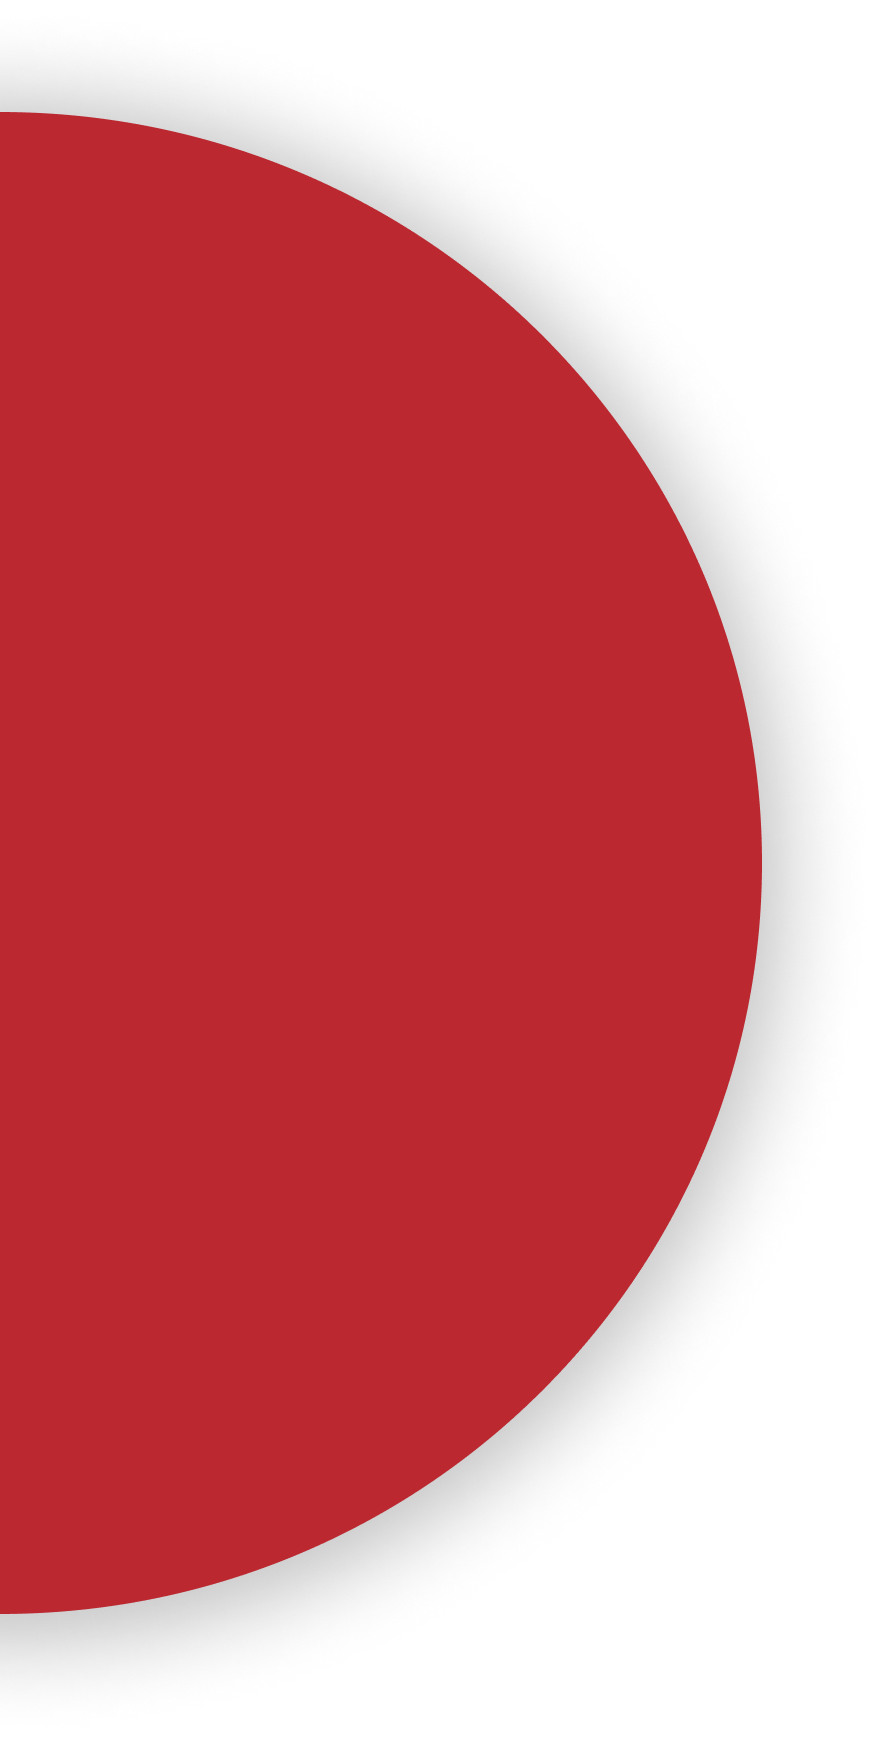
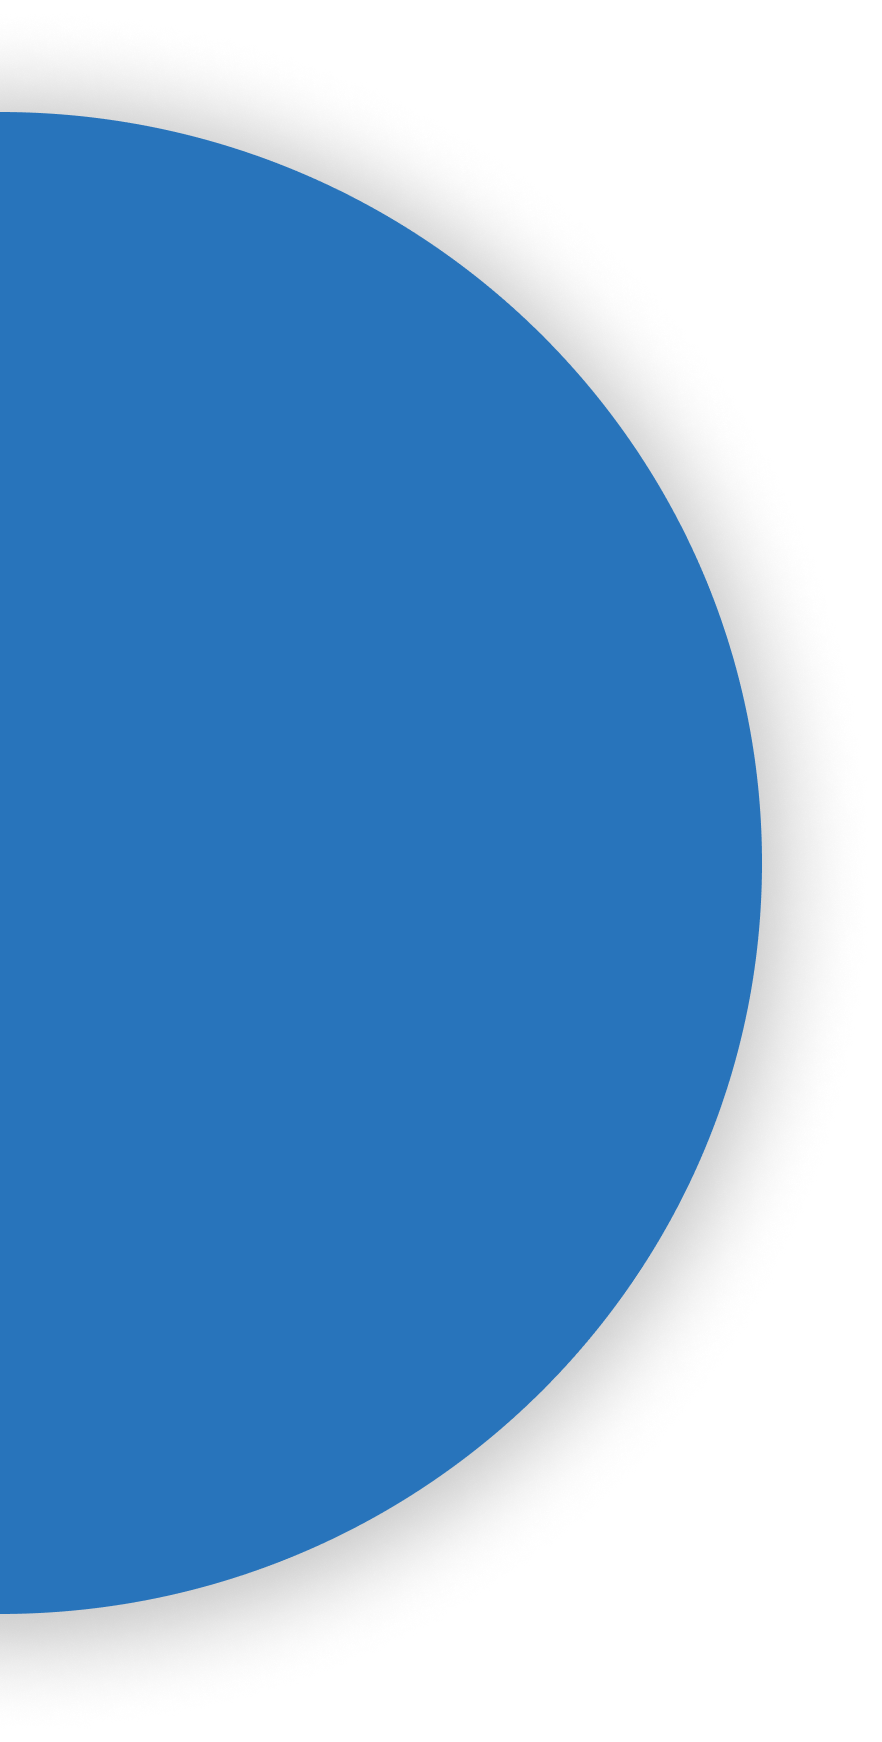
colors updated :)

diff --git a/css/home.css b/css/home.css
@@ -224,7 +224,7 @@ h1{
 /* =============================== */
 
 .home-container {
-  background-color: #e3c9c9;
+  background-color: #C9DAE3;
   padding: 0px;
 }
 .home-container img {
@@ -312,7 +312,7 @@ h1{
 
 .video-container {
   display: flex;
-  background-color: #d8c2c2;
+  background-color: #A6C7D8;
   width: 100%;
   padding-bottom: 150px;
 }
@@ -409,7 +409,7 @@ h1{
 .contact-container {
   display: flex;
   align-items: flex-start; /* Changed from 'center' to 'flex-start' */
-  background-color: #d8caca;
+  background-color: #9CBBCB;
   padding-top: 50px;
   justify-content: flex-end;
 }
